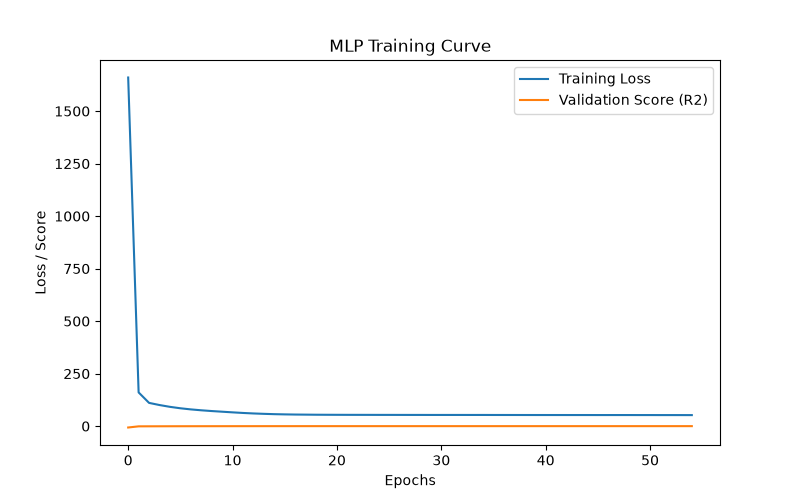
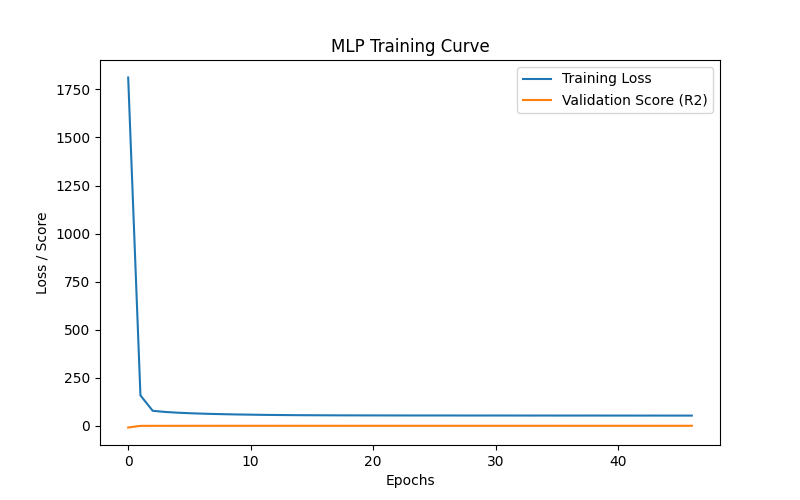
fix(prediction): update OneHotEncoder to ignore unknown subjects and resolve indexing issues

diff --git a/src/prediction/train_mlp.py b/src/prediction/train_mlp.py
@@ -25,10 +25,11 @@ def train_and_evaluate():
     numeric_features = X_train.drop(columns=['student_id', 'subject']).columns.tolist()
     categorical_features = ['subject']
     
+    # FIXED: handle_unknown='ignore' allows unseen subjects (like 'Networks', 'Ethics') during inference
     preprocessor = ColumnTransformer(
         transformers=[
             ('num', StandardScaler(), numeric_features),
-            ('cat', OneHotEncoder(drop='first'), categorical_features)
+            ('cat', OneHotEncoder(handle_unknown='ignore'), categorical_features)
         ])
         
     print("Building MLP Pipeline with recommended defaults...")
@@ -54,7 +55,9 @@ def train_and_evaluate():
     print(f"Training complete. Early stopping triggered at epoch: {mlp.n_iter_}")
     
     # --- Step 6: Honest Test Evaluation ---
+    # FIXED: Wrap predictions in a Pandas Series with matching index for error analysis
     y_pred = pd.Series(pipeline.predict(X_test), index=y_test.index)
+    
     mae = mean_absolute_error(y_test, y_pred)
     rmse = np.sqrt(mean_squared_error(y_test, y_pred))
     r2 = r2_score(y_test, y_pred)
@@ -72,7 +75,7 @@ def train_and_evaluate():
     worst_indices = errors.nlargest(20).index
     print("\nError Analysis - Top 5 worst predictions:")
     for idx in worst_indices[:5]:
-        print(f"True: {y_test.loc[idx]:.1f}, Pred: {y_pred.loc[idx]:.1f}, Diff: {errors.loc[idx]:.1f} | Subj: {df.loc[idx, 'subject']}")
+        print(f"True: {y_test.loc[idx]:.1f}, Pred: {y_pred[idx]:.1f}, Diff: {errors.loc[idx]:.1f} | Subj: {df.loc[idx, 'subject']}")
         
     # --- Export Report Figures ---
     os.makedirs(os.path.join("docs", "figures"), exist_ok=True)
@@ -109,6 +112,7 @@ def train_and_evaluate():
     plt.close()
     
     # --- Step 8: Persist the Pipeline ---
+    # FIXED: Ensure models directory exists
     os.makedirs("models", exist_ok=True)
     model_path = os.path.join("models", "predictor_v1.joblib")
     joblib.dump(pipeline, model_path)

diff --git a/src/prediction/predict.py b/src/prediction/predict.py
@@ -1,7 +1,44 @@
+import joblib
 import numpy as np
 import pandas as pd
+import os
+
+# Cache the model so we don't load it from disk on every single Streamlit rerun
+MODEL_PATH = os.path.join("models", "predictor_v1.joblib")
+_model = None
+
+def load_model():
+    global _model
+    if _model is None:
+        if not os.path.exists(MODEL_PATH):
+            raise FileNotFoundError(f"Model file not found at {MODEL_PATH}. Please train the model first.")
+        _model = joblib.load(MODEL_PATH)
+    return _model
 
 def predict_scores(features_df):
-    """Stage 1 Stub: Returns random predictions between 30 and 80."""
-    n = len(features_df)
-    return np.random.uniform(30, 80, size=n)
+    """
+    Stage 1: Predicts subject scores based on student features.
+    Input: DataFrame with one row per subject.
+    Output: NumPy array of predicted marks (0-100).
+    """
+    model = load_model()
+    
+    # The exact columns the pipeline expects (derived from the training script)
+    expected_columns = [
+        'study_hours_week', 'quiz_attempts', 'consecutive_logins', 
+        'material_access_freq', 'improvement_rate', 'score_consistency', 
+        'time_per_question', 'class_size', 'resource_index', 
+        'faculty_ratio', 'peak_study_time', 'weekend_study_ratio', 
+        'difficulty_indicator', 'subject'
+    ]
+    
+    # 1. Validate Columns (Fail early with a readable error)
+    missing_cols = [col for col in expected_columns if col not in features_df.columns]
+    if missing_cols:
+        raise ValueError(f"Stage 1 Error: Input DataFrame is missing required columns: {missing_cols}")
+        
+    # 2. Predict
+    predictions = model.predict(features_df)
+    
+    # 3. Clip output to the strict 0-100 universe required by Stage 2
+    return np.clip(predictions, 0, 100)

diff --git a/smoke_test.py b/smoke_test.py
@@ -43,7 +43,22 @@ if __name__ == "__main__":
     subjects = ["Databases", "Networks", "Statistics", "Maths", "Ethics"]
     
     # We pass empty mock DataFrames because the Stage 1 stub currently ignores features
-    mock_features = pd.DataFrame({'subject': subjects})
+    mock_features = pd.DataFrame({
+        'subject': subjects,
+        'study_hours_week': [12.0, 15.0, 8.0, 20.0, 5.0],
+        'quiz_attempts': [3, 5, 2, 8, 1],
+        'consecutive_logins': [4, 10, 2, 14, 1],
+        'material_access_freq': [10, 25, 5, 40, 2],
+        'improvement_rate': [1.1, 1.5, 0.9, 2.1, 0.8],
+        'score_consistency': [0.5, 0.7, 0.4, 0.8, 0.3],
+        'time_per_question': [1.5, 1.2, 2.0, 1.0, 2.5],
+        'class_size': [30] * 5,
+        'resource_index': [50.0, 75.0, 40.0, 90.0, 30.0],
+        'faculty_ratio': [0.1] * 5,
+        'peak_study_time': [14, 10, 18, 9, 20],
+        'weekend_study_ratio': [0.2, 0.5, 0.1, 0.8, 0.0],
+        'difficulty_indicator': [2, 1, 3, 1, 2]
+    })
     
     # 1. The Overconfident Student (Demo case: Failing a subject but rating it high)
     confidence_1 = np.array([9.0, 5.0, 6.0, 7.0, 5.0])
